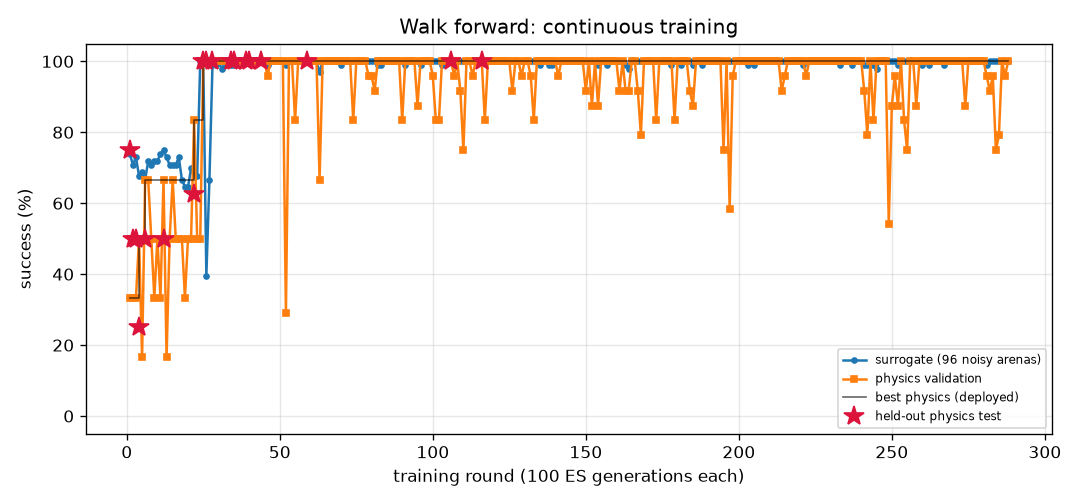
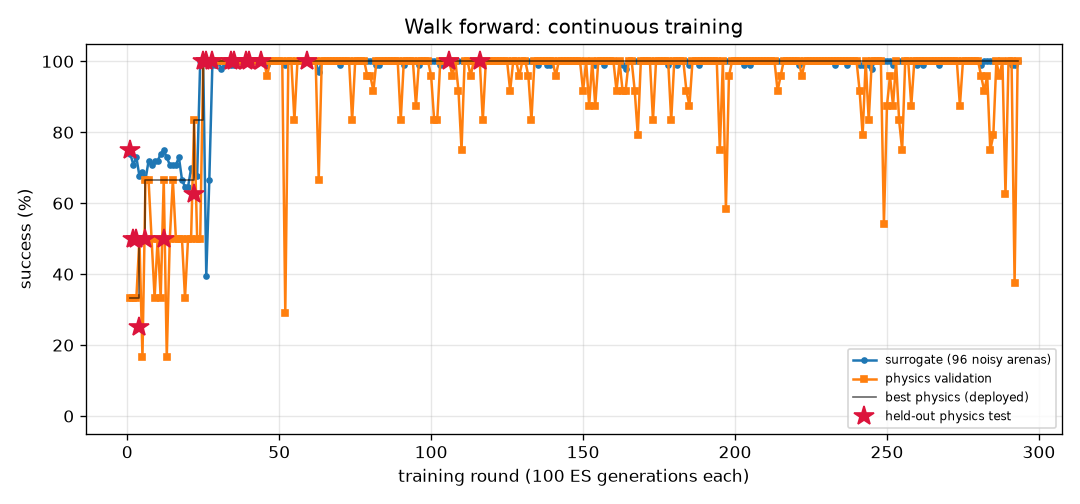
FlyLab: continuous training progress
- walk_forward: optimal, physics val 100% of 24, round 293
- turn: optimal, physics val 100% of 24, round 866
- goto: optimal, physics val 100% of 24, round 237
- odor_seek: optimal, physics val 100% of 24, round 195
- odor_avoid: optimal, physics val 100% of 24, round 784
- light_seek: optimal, physics val 100% of 24, round 433
- light_avoid: optimal, physics val 100% of 24, round 521

diff --git a/projects/09_flylab/training/walk_forward/REPORT.md b/projects/09_flylab/training/walk_forward/REPORT.md
@@ -1,14 +1,14 @@
 # Walk forward (`walk_forward`) — training report
 
-*Auto-generated by `train_brains.py`, last updated 2026-11-04T21:59:09.*
+*Auto-generated by `train_brains.py`, last updated 2026-11-05T12:54:51.*
 
 ![curve](curve.png)
 
 | | |
 |---|---|
-| rounds | 288 |
-| ES generations | 28800 |
-| physics runs | 6926 |
+| rounds | 293 |
+| ES generations | 29300 |
+| physics runs | 7046 |
 | status | **optimal** |
 | best brain | round 116: physics validation **100%** on 24 arenas, surrogate 100% |
 | held-out physics test | **100%** on 32 unseen arenas (95% CI 89%-100%) (errors: [0.13, 0.16, 0.19, 0.16, 0.15, 0.2, 0.17, 0.18, 0.17, 0.19, 0.2, 0.14, 0.17, 0.19, 0.2, 0.2, 0.13, 0.19, 0.16, 0.2, 0.2, 0.16, 0.17, 0.2, 0.13, 0.15, 0.18, 0.14, 0.16, 0.15, 0.19, 0.12]) |
@@ -17,11 +17,6 @@ Physics error per arena: mm from target at the end (< 1.5 and standing still = s
 
 | round | level | gens | sigma | surrogate | physics val | val errors | test | note |
 |---:|---:|---:|---:|---:|---:|---|---:|---|
-| 249 | 3 | 24900 | 0.024 | 100% | 54% | [0.25, 0.05, 0.4, 0.21, 0.08, 1.4, 0.08, 1.8, 0.04, 0.08, 0.61, 0.15, 2.27, 0.77, 0.42, 0.1, 0.38, 0.06, 0.02, 0.04, 0.7, 0.07, 0.1, 0.57] |  |  |
-| 250 | 3 | 25000 | 0.024 | 100% | 88% | [0.17, 0.26, 0.03, 0.16, 0.26, 0.5, 0.26, 0.08, 0.26, 0.28, 0.32, 0.26, 0.07, 0.29, 0.19, 0.27, 0.26, 0.24, 0.07, 0.2, 0.11, 0.28, 0.26, 0.07] |  |  |
-| 251 | 3 | 25100 | 0.024 | 100% | 96% | [0.1, 0.15, 0.05, 0.09, 0.13, 0.12, 0.14, 0.17, 0.16, 0.15, 0.09, 0.22, 0.1, 0.07, 0.11, 0.13, 0.03, 0.15, 0.1, 0.11, 0.08, 0.2, 0.21, 0.02] |  |  |
-| 252 | 3 | 25200 | 0.024 | 99% | 88% | [0.04, 0.2, 0.46, 0.17, 0.2, 0.4, 0.21, 0.15, 0.21, 0.23, 0.75, 0.24, 0.44, 0.05, 0.05, 0.24, 0.03, 0.18, 0.07, 0.17, 0.07, 0.24, 0.24, 0.31] |  | restart from best |
-| 253 | 3 | 25300 | 0.024 | 100% | 100% | [0.24, 0.38, 0.26, 0.24, 0.38, 0.27, 0.39, 0.24, 0.38, 0.4, 0.28, 0.39, 0.24, 0.27, 0.26, 0.39, 0.22, 0.34, 0.23, 0.29, 0.22, 0.4, 0.37, 0.24] |  |  |
 | 254 | 3 | 25400 | 0.024 | 100% | 83% | [0.14, 0.08, 0.09, 0.06, 0.21, 0.08, 0.03, 0.08, 0.08, 0.07, 0.11, 0.08, 0.07, 1.06, 0.16, 0.11, 1.07, 0.06, 0.07, 0.07, 0.08, 0.05, 0.09, 0.06] |  |  |
 | 255 | 3 | 25500 | 0.024 | 100% | 75% | [0.05, 0.08, 0.02, 0.51, 0.07, 0.13, 0.06, 0.07, 0.08, 0.07, 0.1, 0.06, 0.07, 0.19, 0.05, 0.02, 0.52, 0.0, 0.07, 0.06, 0.69, 0.1, 0.05, 0.08] |  |  |
 | 256 | 3 | 25600 | 0.024 | 100% | 100% | [0.23, 0.32, 0.24, 0.23, 0.31, 0.24, 0.32, 0.25, 0.32, 0.35, 0.24, 0.35, 0.25, 0.25, 0.24, 0.34, 0.23, 0.28, 0.24, 0.24, 0.24, 0.35, 0.34, 0.25] |  | restart from best |
@@ -57,3 +52,8 @@ Physics error per arena: mm from target at the end (< 1.5 and standing still = s
 | 286 | 3 | 28600 | 0.024 | 100% | 100% | [0.25, 0.24, 0.26, 0.25, 0.25, 0.25, 0.25, 0.27, 0.24, 0.23, 0.23, 0.25, 0.26, 0.25, 0.26, 0.24, 0.26, 0.25, 0.26, 0.25, 0.27, 0.22, 0.29, 0.26] |  |  |
 | 287 | 3 | 28700 | 0.024 | 100% | 96% | [0.13, 0.24, 0.14, 0.13, 0.24, 0.16, 0.24, 0.11, 0.24, 0.26, 0.17, 0.25, 0.01, 0.15, 0.16, 0.25, 0.12, 0.21, 0.12, 0.17, 0.11, 0.26, 0.23, 0.38] |  |  |
 | 288 | 3 | 28800 | 0.024 | 100% | 100% | [0.26, 0.33, 0.25, 0.26, 0.33, 0.25, 0.33, 0.24, 0.33, 0.33, 0.25, 0.33, 0.24, 0.25, 0.28, 0.33, 0.25, 0.31, 0.24, 0.29, 0.23, 0.33, 0.32, 0.24] |  | restart from best |
+| 289 | 3 | 28900 | 0.024 | 100% | 62% | [0.01, 0.17, 0.08, 0.47, 0.17, 1.02, 0.18, 0.53, 0.18, 0.19, 0.02, 0.17, 0.7, 0.71, 0.11, 0.18, 0.83, 0.15, 0.03, 0.13, 0.42, 0.19, 0.17, 0.29] |  |  |
+| 290 | 3 | 29000 | 0.024 | 100% | 100% | [0.22, 0.22, 0.18, 0.23, 0.22, 0.17, 0.22, 0.21, 0.22, 0.19, 0.16, 0.16, 0.21, 0.17, 0.23, 0.19, 0.23, 0.22, 0.22, 0.22, 0.22, 0.19, 0.16, 0.21] |  |  |
+| 291 | 3 | 29100 | 0.024 | 99% | 100% | [0.3, 0.29, 0.27, 0.29, 0.29, 0.26, 0.29, 0.29, 0.29, 0.28, 0.26, 0.27, 0.28, 0.27, 0.3, 0.28, 0.29, 0.3, 0.29, 0.3, 0.29, 0.28, 0.28, 0.29] |  |  |
+| 292 | 3 | 29200 | 0.025 | 99% | 38% | [3.46, 0.04, 0.02, 3.28, 0.07, 0.08, 0.04, 0.18, 0.13, 0.08, 0.48, 0.99, 3.81, 0.03, 0.34, 0.1, 0.17, 2.98, 0.07, 1.21, 2.08, 1.18, 0.09, 1.58] |  | restart from best |
+| 293 | 3 | 29300 | 0.024 | 100% | 100% | [0.32, 0.36, 0.25, 0.32, 0.36, 0.24, 0.35, 0.26, 0.36, 0.35, 0.24, 0.33, 0.25, 0.25, 0.33, 0.34, 0.3, 0.35, 0.26, 0.34, 0.28, 0.35, 0.32, 0.26] |  |  |

diff --git a/projects/09_flylab/training/light_seek/REPORT.md b/projects/09_flylab/training/light_seek/REPORT.md
@@ -1,14 +1,14 @@
 # Walk toward light (`light_seek`) — training report
 
-*Auto-generated by `train_brains.py`, last updated 2026-11-04T20:53:21.*
+*Auto-generated by `train_brains.py`, last updated 2026-11-05T12:33:18.*
 
 ![curve](curve.png)
 
 | | |
 |---|---|
-| rounds | 430 |
-| ES generations | 43000 |
-| physics runs | 7200 |
+| rounds | 433 |
+| ES generations | 43300 |
+| physics runs | 7272 |
 | status | **optimal** |
 | best brain | round 375: physics validation **100%** on 24 arenas, surrogate 100% |
 | held-out physics test | **100%** on 32 unseen arenas (95% CI 89%-100%) (errors: [0.57, 0.54, 0.53, 0.57, 0.55, 0.56, 0.59, 0.56, 0.53, 0.56, 0.71, 0.56, 0.55, 0.54, 0.53, 0.54, 0.54, 0.55, 0.52, 0.65, 0.64, 0.7, 0.58, 0.57, 0.6, 0.62, 0.55, 0.88, 0.54, 0.52, 0.62, 0.57]) |
@@ -17,9 +17,6 @@ Physics error per arena: mm from target at the end (< 1.5 and standing still = s
 
 | round | level | gens | sigma | surrogate | physics val | val errors | test | note |
 |---:|---:|---:|---:|---:|---:|---|---:|---|
-| 391 | 3 | 39100 | 0.024 | 100% | 100% | [0.59, 0.45, 0.51, 0.44, 0.51, 0.49, 0.97, 0.46, 0.51, 0.56, 0.44, 0.52, 0.54, 0.64, 0.43, 0.45, 0.58, 0.55, 0.49, 0.93, 0.42, 1.13, 0.47, 0.58] |  | restart from best |
-| 392 | 3 | 39200 | 0.024 | 100% | 100% | [0.48, 0.6, 0.49, 0.51, 1.01, 0.5, 0.5, 0.58, 0.72, 0.68, 0.52, 0.58, 0.85, 0.73, 0.53, 0.59, 0.66, 0.52, 0.67, 0.67, 0.81, 0.84, 0.57, 0.54] |  |  |
-| 393 | 3 | 39300 | 0.024 | 100% | 100% | [0.87, 0.51, 0.53, 0.52, 0.55, 0.5, 0.64, 0.57, 0.58, 0.48, 0.53, 0.55, 0.63, 0.56, 0.58, 0.51, 0.53, 0.51, 0.58, 0.58, 0.51, 0.5, 0.48, 0.76] |  |  |
 | 394 | 3 | 39400 | 0.024 | 100% | 96% | [0.54, 0.54, 0.6, 0.54, 0.63, 0.56, 0.63, 0.65, 0.68, 0.59, 0.75, 0.58, 0.54, 0.69, 0.71, 0.69, 0.54, 0.62, 0.63, 0.65, 0.53, 2.19, 0.64, 0.55] |  |  |
 | 395 | 3 | 39500 | 0.024 | 100% | 100% | [0.51, 0.54, 0.68, 0.64, 0.61, 0.54, 0.54, 0.55, 0.61, 0.51, 0.53, 0.51, 1.17, 0.53, 0.69, 0.67, 0.51, 0.6, 0.51, 0.62, 0.78, 0.78, 0.67, 0.55] |  | restart from best |
 | 396 | 3 | 39600 | 0.024 | 100% | 92% | [0.61, 0.66, 0.7, 0.71, 0.56, 2.04, 0.53, 0.6, 0.96, 0.64, 0.64, 0.56, 0.81, 1.02, 0.58, 0.58, 0.58, 0.56, 0.61, 1.5, 0.79, 0.57, 0.64, 0.82] |  |  |
@@ -57,3 +54,6 @@ Physics error per arena: mm from target at the end (< 1.5 and standing still = s
 | 428 | 3 | 42800 | 0.024 | 100% | 100% | [0.48, 0.51, 0.48, 0.6, 0.48, 0.57, 0.5, 0.51, 0.64, 0.64, 0.5, 0.58, 0.53, 0.47, 0.6, 0.55, 0.5, 0.53, 0.48, 0.5, 0.47, 1.32, 0.67, 0.49] |  |  |
 | 429 | 3 | 42900 | 0.024 | 100% | 96% | [0.76, 0.63, 0.61, 0.51, 0.66, 0.77, 0.83, 0.69, 0.66, 0.69, 0.67, 0.58, 0.65, 1.09, 1.12, 0.63, 0.62, 0.55, 0.58, 1.09, 1.67, 0.77, 0.69, 0.72] |  |  |
 | 430 | 3 | 43000 | 0.024 | 100% | 100% | [0.6, 0.55, 0.51, 0.5, 0.57, 0.57, 0.52, 0.62, 0.53, 0.52, 0.64, 0.69, 0.56, 0.55, 0.6, 0.62, 0.57, 0.98, 0.52, 0.57, 0.52, 0.84, 0.64, 0.7] |  |  |
+| 431 | 3 | 43100 | 0.024 | 100% | 100% | [0.59, 0.6, 0.52, 0.54, 0.6, 0.57, 0.6, 0.54, 0.63, 0.59, 0.54, 0.6, 0.64, 0.63, 0.64, 0.58, 0.61, 0.58, 0.59, 0.53, 0.78, 0.65, 0.61, 0.66] |  | restart from best |
+| 432 | 3 | 43200 | 0.024 | 100% | 100% | [0.59, 0.6, 0.68, 0.68, 0.62, 0.7, 0.7, 0.67, 0.63, 0.63, 0.56, 0.6, 0.58, 0.62, 0.84, 0.68, 0.61, 0.69, 0.6, 0.6, 0.79, 0.65, 0.71, 0.69] |  |  |
+| 433 | 3 | 43300 | 0.024 | 99% | 100% | [0.61, 0.81, 0.78, 0.65, 0.62, 0.68, 0.71, 0.77, 1.08, 0.78, 0.6, 0.66, 0.64, 0.71, 0.68, 0.76, 0.77, 0.76, 0.69, 0.91, 1.05, 0.75, 0.84, 1.05] |  |  |

diff --git a/projects/09_flylab/training/goto/REPORT.md b/projects/09_flylab/training/goto/REPORT.md
@@ -1,14 +1,14 @@
 # Go to a location (`goto`) — training report
 
-*Auto-generated by `train_brains.py`, last updated 2026-11-04T22:04:02.*
+*Auto-generated by `train_brains.py`, last updated 2026-11-05T12:49:54.*
 
 ![curve](curve.png)
 
 | | |
 |---|---|
-| rounds | 236 |
-| ES generations | 23600 |
-| physics runs | 5614 |
+| rounds | 237 |
+| ES generations | 23700 |
+| physics runs | 5638 |
 | status | **optimal** |
 | best brain | round 176: physics validation **100%** on 24 arenas, surrogate 100% |
 | held-out physics test | **100%** on 32 unseen arenas (95% CI 89%-100%) (errors: [0.2, 0.32, 0.19, 0.24, 0.18, 0.2, 0.19, 0.17, 0.22, 0.23, 0.23, 0.26, 0.2, 0.19, 0.24, 0.23, 0.22, 0.24, 0.2, 0.22, 0.2, 0.2, 0.26, 0.19, 0.22, 0.18, 0.26, 0.22, 0.2, 0.26, 0.23, 0.23]) |
@@ -17,7 +17,6 @@ Physics error per arena: mm from target at the end (< 1.5 and standing still = s
 
 | round | level | gens | sigma | surrogate | physics val | val errors | test | note |
 |---:|---:|---:|---:|---:|---:|---|---:|---|
-| 197 | 3 | 19700 | 0.024 | 99% | 100% | [0.46, 0.44, 0.46, 0.38, 0.31, 0.36, 0.42, 0.41, 0.42, 0.33, 0.31, 0.37, 0.46, 0.36, 0.44, 0.43, 0.47, 0.38, 0.31, 0.43, 0.38, 0.34, 0.46, 0.36] |  |  |
 | 198 | 3 | 19800 | 0.025 | 99% | 100% | [0.59, 0.63, 0.64, 0.54, 0.56, 0.52, 0.6, 0.56, 0.55, 0.55, 0.54, 0.56, 0.62, 0.55, 0.66, 0.64, 0.61, 0.52, 0.53, 0.59, 0.6, 0.57, 0.63, 0.54] |  |  |
 | 199 | 3 | 19900 | 0.025 | 99% | 100% | [0.68, 0.67, 0.69, 0.58, 0.57, 0.6, 0.67, 0.62, 0.61, 0.53, 0.53, 0.56, 0.65, 0.57, 0.58, 0.6, 0.68, 0.62, 0.55, 0.61, 0.6, 0.51, 0.69, 0.59] |  |  |
 | 200 | 3 | 20000 | 0.025 | 100% | 100% | [0.49, 0.52, 0.56, 0.45, 0.53, 0.47, 0.52, 0.53, 0.47, 0.49, 0.5, 0.47, 0.52, 0.52, 0.57, 0.55, 0.53, 0.44, 0.49, 0.51, 0.56, 0.52, 0.54, 0.47] |  | restart from best |
@@ -57,3 +56,4 @@ Physics error per arena: mm from target at the end (< 1.5 and standing still = s
 | 234 | 3 | 23400 | 0.025 | 99% | 100% | [0.5, 0.43, 0.43, 0.33, 0.31, 0.32, 0.49, 0.32, 0.42, 0.32, 0.31, 0.31, 0.43, 0.28, 0.33, 0.33, 0.42, 0.42, 0.33, 0.39, 0.34, 0.3, 0.4, 0.36] |  |  |
 | 235 | 3 | 23500 | 0.025 | 99% | 100% | [0.49, 0.48, 0.49, 0.39, 0.35, 0.37, 0.52, 0.4, 0.4, 0.35, 0.33, 0.37, 0.49, 0.34, 0.39, 0.4, 0.5, 0.45, 0.34, 0.46, 0.39, 0.35, 0.48, 0.4] |  |  |
 | 236 | 3 | 23600 | 0.025 | 99% | 100% | [0.64, 0.56, 0.58, 0.5, 0.4, 0.48, 0.57, 0.5, 0.57, 0.41, 0.42, 0.46, 0.59, 0.36, 0.45, 0.47, 0.59, 0.53, 0.42, 0.52, 0.44, 0.4, 0.58, 0.49] |  | restart from best |
+| 237 | 3 | 23700 | 0.024 | 100% | 100% | [0.6, 0.5, 0.53, 0.46, 0.39, 0.44, 0.55, 0.47, 0.49, 0.41, 0.42, 0.44, 0.54, 0.37, 0.46, 0.42, 0.55, 0.49, 0.42, 0.5, 0.42, 0.43, 0.54, 0.46] |  |  |

diff --git a/projects/09_flylab/training/TRAINING.md b/projects/09_flylab/training/TRAINING.md
@@ -1,15 +1,15 @@
 # FlyLab brains — continuous training log
 
-*Auto-generated by `train_brains.py`, last updated 2026-11-05T11:44:16.*
+*Auto-generated by `train_brains.py`, last updated 2026-11-05T12:54:51.*
 
 Every skill has its own brain and its own training process: surrogate ES rounds, physics validation in MuJoCo, keep-the-best selection, and a held-out physics test that is never used for selection. See each skill's report for its full round-by-round history. Mastery is progressive: passing a level (100% physics validation, >=95% surrogate) doubles the validation and test arena sets; a brain is **optimal** once it holds up at level 3 (>=95% of 24 validation arenas) AND scores >=90% on the 32 held-out test arenas. Test columns show 95% Wilson confidence intervals.
 
 | skill | rounds | ES generations | physics runs | surrogate | physics val | **physics test** | status |
 |---|---:|---:|---:|---:|---:|---:|---|
-| [Walk forward](walk_forward/REPORT.md) | 288 | 28800 | 6926 | 100% | 100% of 24 | 100% of 32 (CI 89-100%) | **optimal** |
+| [Walk forward](walk_forward/REPORT.md) | 293 | 29300 | 7046 | 100% | 100% of 24 | 100% of 32 (CI 89-100%) | **optimal** |
 | [Turn in place](turn/REPORT.md) | 866 | 86600 | 21030 | 100% | 100% of 24 | 97% of 32 (CI 84-99%) | **optimal** |
-| [Go to a location](goto/REPORT.md) | 236 | 23600 | 5614 | 100% | 100% of 24 | 100% of 32 (CI 89-100%) | **optimal** |
+| [Go to a location](goto/REPORT.md) | 237 | 23700 | 5638 | 100% | 100% of 24 | 100% of 32 (CI 89-100%) | **optimal** |
 | [Find food by smell](odor_seek/REPORT.md) | 195 | 19500 | 4110 | 100% | 100% of 24 | 100% of 32 (CI 89-100%) | **optimal** |
 | [Escape a bad smell](odor_avoid/REPORT.md) | 784 | 78400 | 16122 | 97% | 100% of 24 | 97% of 32 (CI 84-99%) | **optimal** |
-| [Walk toward light](light_seek/REPORT.md) | 430 | 43000 | 7200 | 100% | 100% of 24 | 100% of 32 (CI 89-100%) | **optimal** |
+| [Walk toward light](light_seek/REPORT.md) | 433 | 43300 | 7272 | 100% | 100% of 24 | 100% of 32 (CI 89-100%) | **optimal** |
 | [Hide from light](light_avoid/REPORT.md) | 521 | 52100 | 12776 | 100% | 100% of 24 | 100% of 32 (CI 89-100%) | **optimal** |
